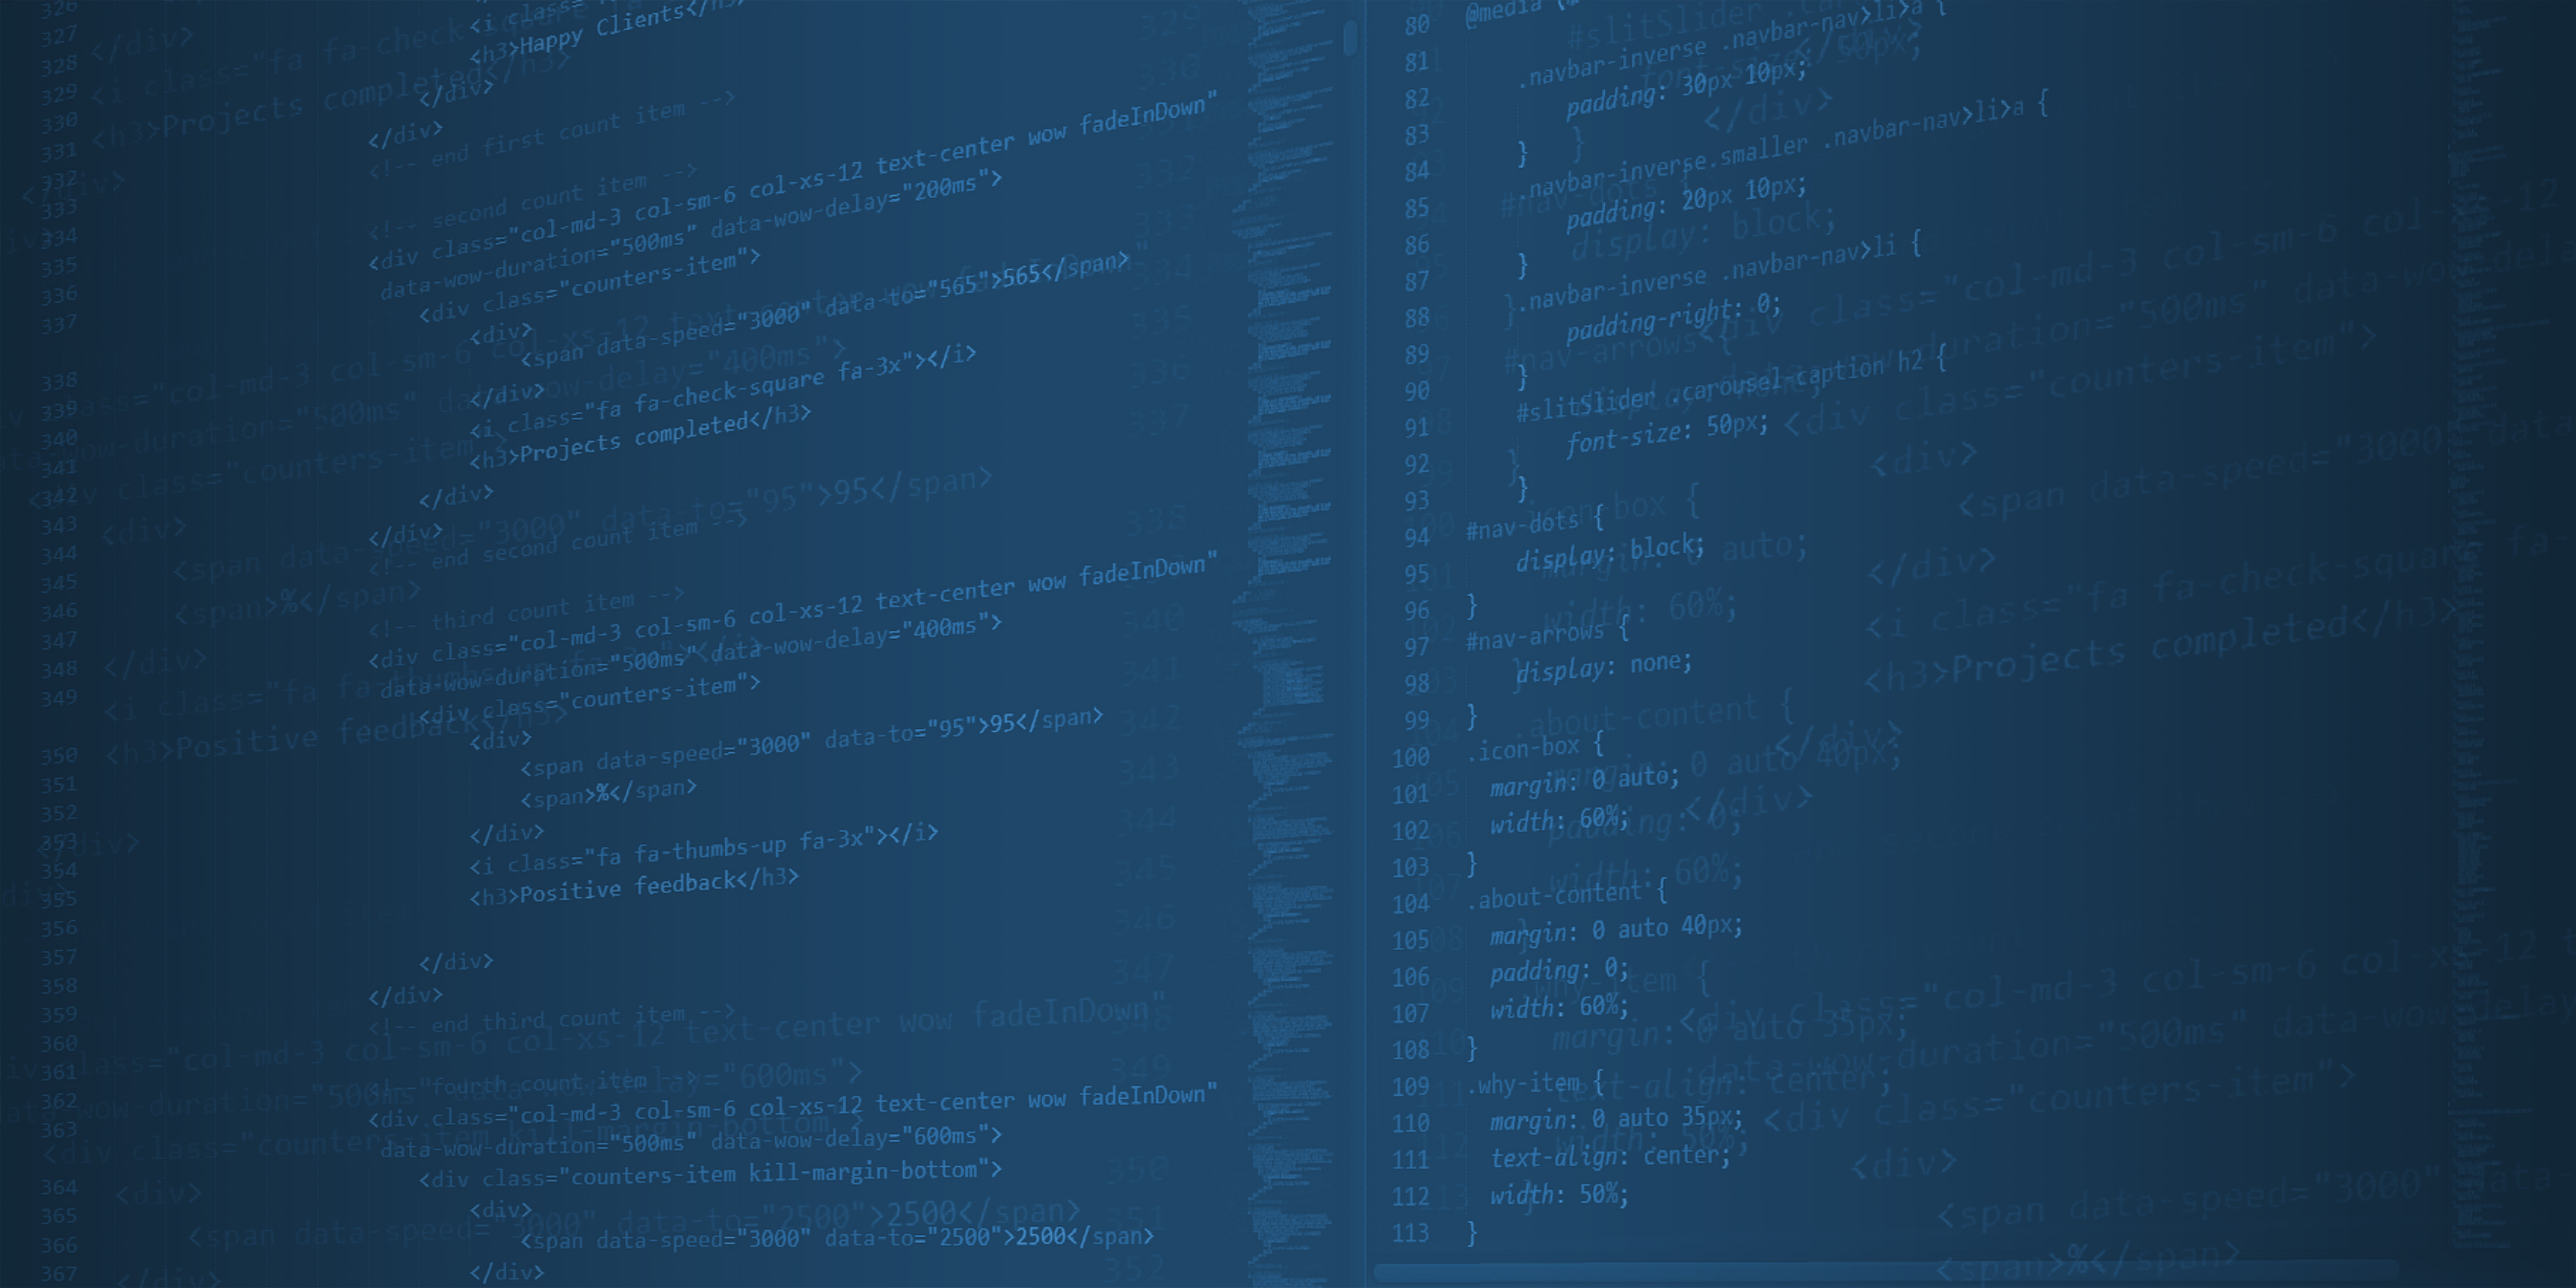
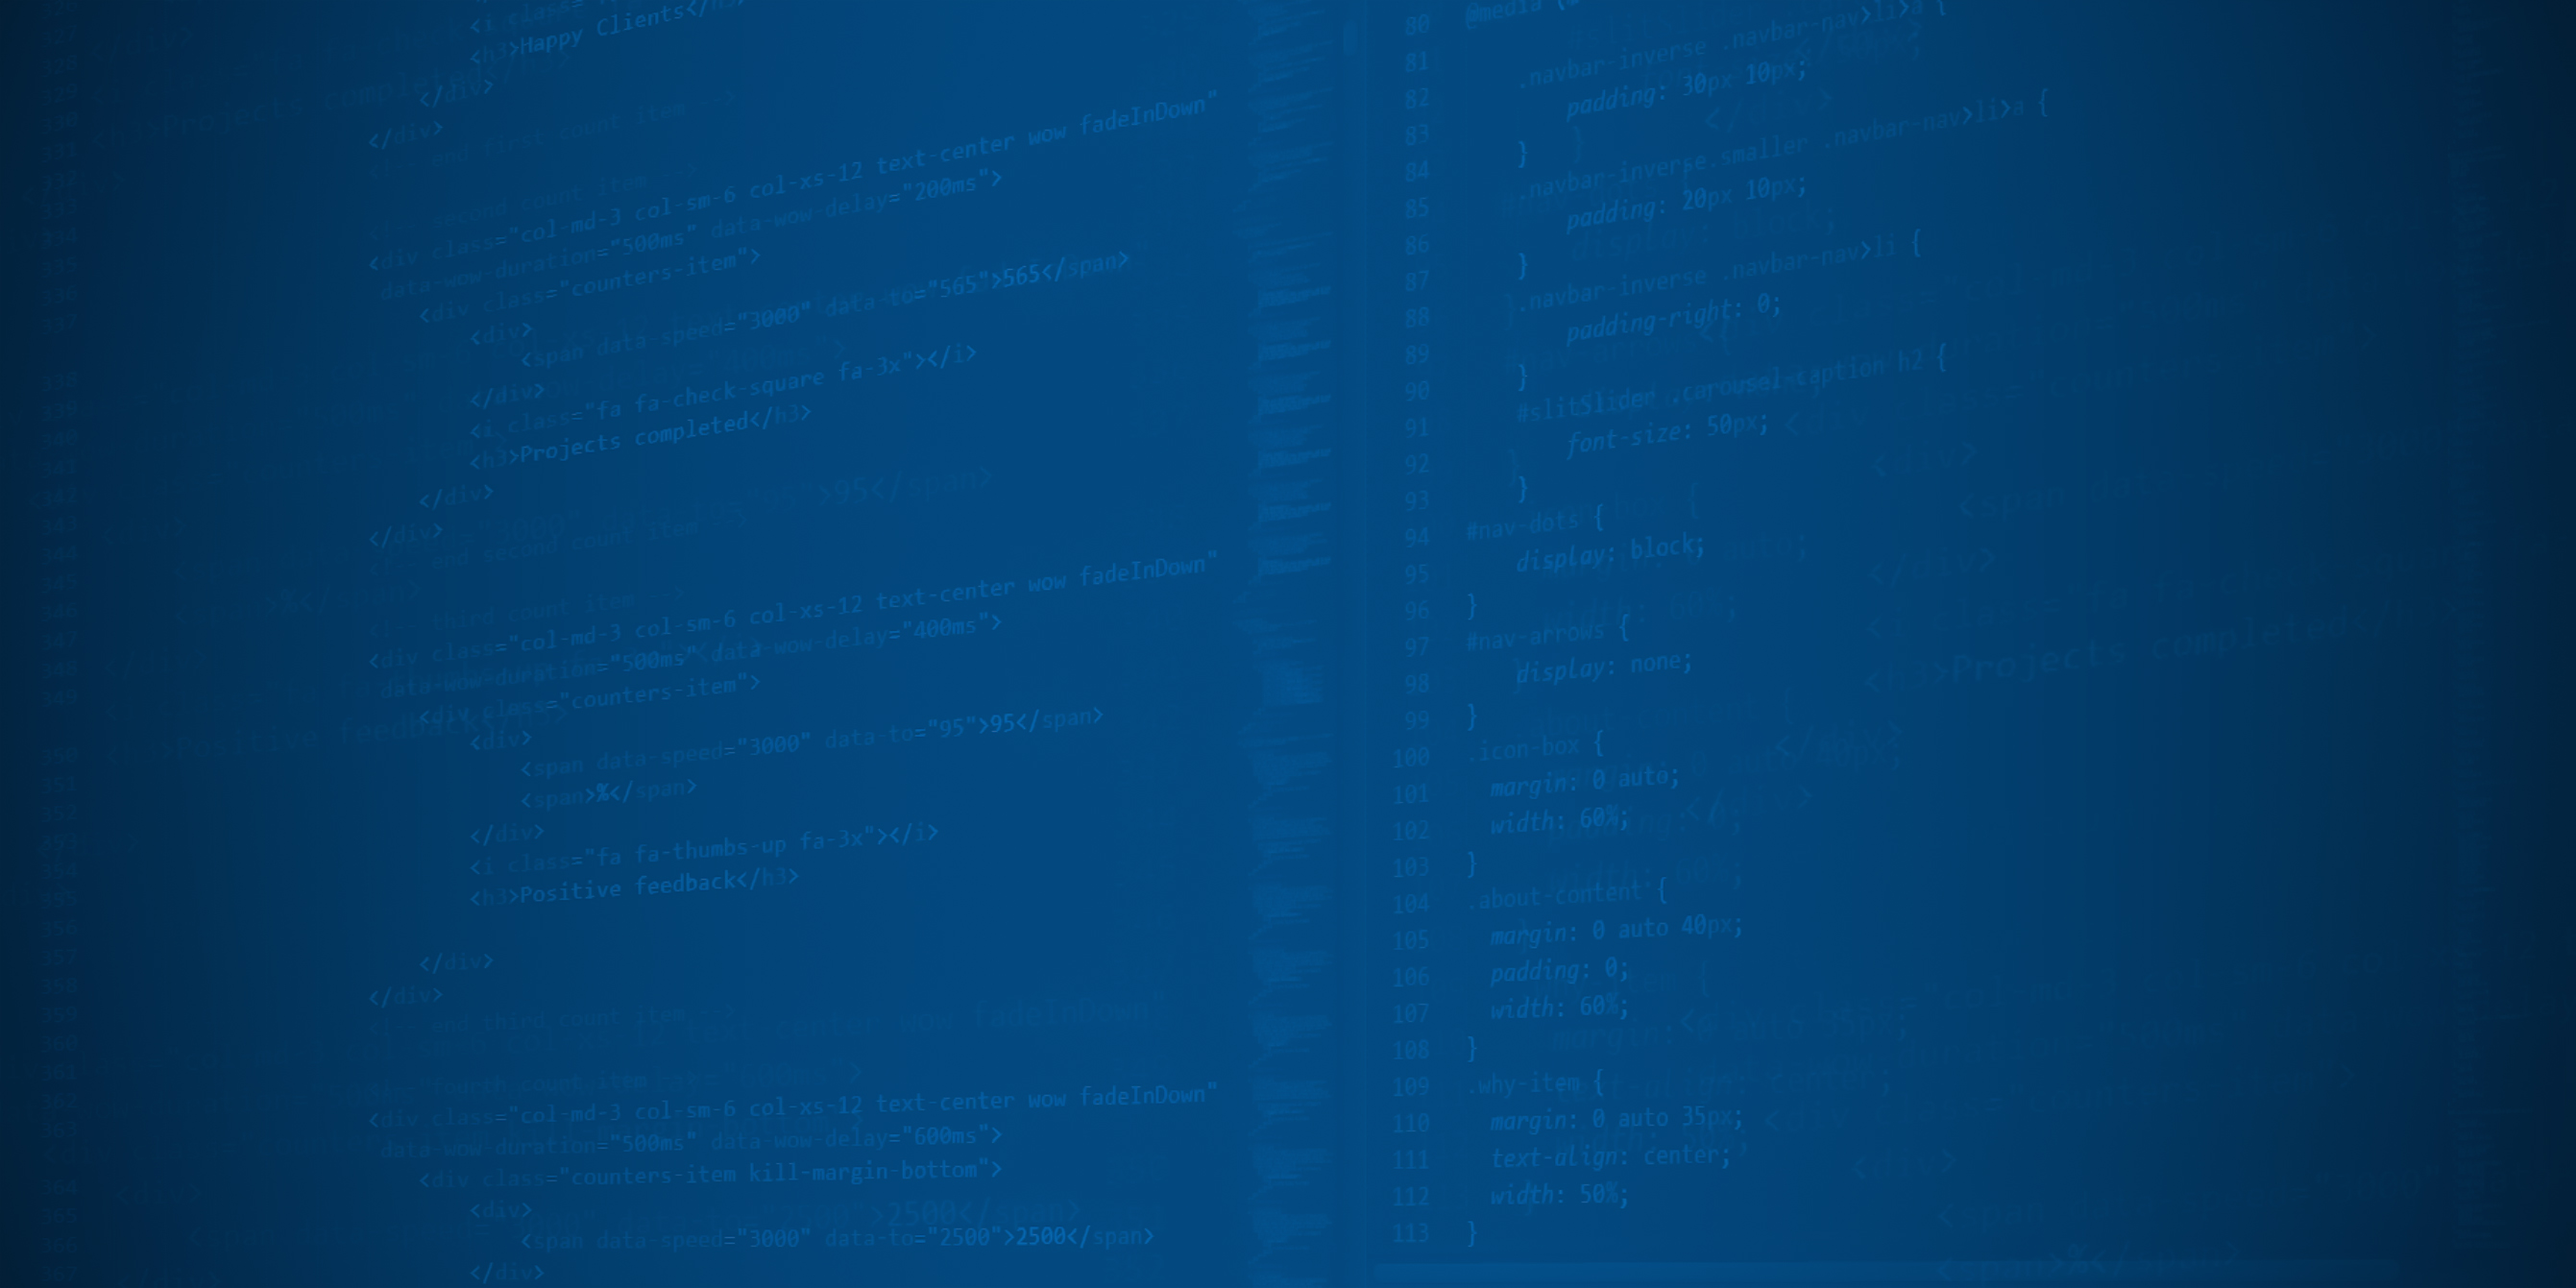
added new background image and bio info

diff --git a/index.html b/index.html
@@ -50,18 +50,68 @@
             <div> 
                 <div class="p-logo">
                     <a href="#"><img id="logo" src="./assets/image/logo-01.png" alt="" /></a>
+                    <p class="center-align white-text name">GIOVANNI NOISY</p>
+                    <p class="center-align blue-text text-lighten-4 title">FULL STACK WEB DEVELOPER</p>
+                    <div class="container">
+                        <div class="row">
+                            <div class="col s12 icons">
+                                <i class="fab fa-github fa-2x git-icon"></i>
+                                <i class="fab fa-linkedin fa-2x li-icon"></i>
+                            </div>
+                        </div>
+                    </div>
                 </div>
             </div>
         </div>
-        <div class="container">
+
+        <div class="container bio-card">
             <div class="row">
-                <div class="col s12 icons">
-                    <a class="icon" href="mailto:gnoisy77@gmail.com"><i class="fas fa-paper-plane"></i></a>
-                    <i class="fab fa-github"></i>
-                    <i class="fab fa-linkedin"></i>
+                <!-- <div class="col s12 m3"></div> -->
+                <div class="col s12 my-bio">
+                    <h3 class="center-align blue-text text-darken-3 bio-about">About Me</h3>
+                    <p class="bio left-align">
+                        Hello, I'm Giovanni. I'm a Web Developer who is
+                        currently enrolled in the UC Berkeley Full Stack Web
+                        Development curriculum. I spent the last 15 years
+                        working as a Graphic Designer in the entertainment
+                        industry creating theatrical, video game, home
+                        entertainment and television advertising campaigns. For
+                        the last five years my focus has been in the gaming
+                        industry. I've created campaigns used for marketing core
+                        titles in platforms such as the Apple Store, Google
+                        Play, Facebook, and Discord. Now my focus has taken to
+                        me to Web Development. The ability to design as well as
+                        code I think provides an invaluable asset. Delivering a
+                        final product to the client beginning with initial idea,
+                        to execution and final delivery is a process that can be
+                        streamlined having to only deal with one contact. I'm
+                        excited about developing this new skill set that I am
+                        learning.
+
+                        <br />
+                        <br />
+
+                        In my free time I enjoy being a new dad to my four
+                        month old son Miles, traveling to new places, cooking
+                        and eating great food with my wife Tracie, and getting
+                        out to play a round of golf.
+                      </p>
+
+                </div>
+                <!-- <div class="col s12 m3"></div> -->
+            </div>
+
+        </div>
+
+        <!-- <div class="name-bar">
+            <div class="row">
+                <div class="col s12">
+                    <h2 class="center-align name">Giovanni Noisy</h2>
                 </div>
             </div>
-        </div>
+        </div> -->
+        
+       
     </main>
 
 

diff --git a/assets/css/style.css b/assets/css/style.css
@@ -1,6 +1,8 @@
 html, body {
     margin: 0;
     padding: 0;
+    font-family: Helvetica, sans-serif;
+    /* background-color: #b1c6e1; */
 }
 
 main {
@@ -18,7 +20,8 @@ main {
 }
 
 .jumbotron {
-    height: 350px;
+    z-index: 5;
+    height: 850px;
     background-image: url("../image/background-02.jpg");
     -webkit-background-size: cover;
     -moz-background-size: cover;
@@ -27,16 +30,21 @@ main {
 }
 
 .p-logo {
-    /* position: absolute; */
-    /* top: 30%; */
-    /* left: 40%; */
+    /* position: absolute;
+    top: 30%;
+    left: 40%; */
     margin: 0 auto;
-    padding-top: 5rem;
+    padding-top: 10rem;
+    padding-bottom: 10px;
+    /* height: 85%;
+    width: 85%; */
 }
 
 .icons {
     margin: 0 auto;
-    color: #b8b8b8;;
+    color: #b1c6e1;;
+    height: 200%;
+    width: auto;
 }
 
 #logo {
@@ -53,4 +61,36 @@ main {
     /* background-size:100%;
     width:100%;
     height: 100%; */
+}
+
+.name {
+    font-size: 6rem;
+    font-weight: 500;
+    margin-top: 5px;
+    margin-bottom: 0px;
+    letter-spacing: -5px;
+    line-height: 60px;
+}
+
+.title {
+    letter-spacing: 7px;
+    margin-top: 7px;
+    margin-bottom: 4px;
+}
+
+.git-icon, .li-icon {
+    padding: 0px 5px;
+}
+
+.bio-card {
+    margin-top: 1rem;
+    background-color: #ddeafc;
+}
+.bio-about{
+    margin-bottom: 10px;
+}
+
+.bio {
+    margin-top: 0px;
+    padding: 0 45px 45px 45px; 
 }
